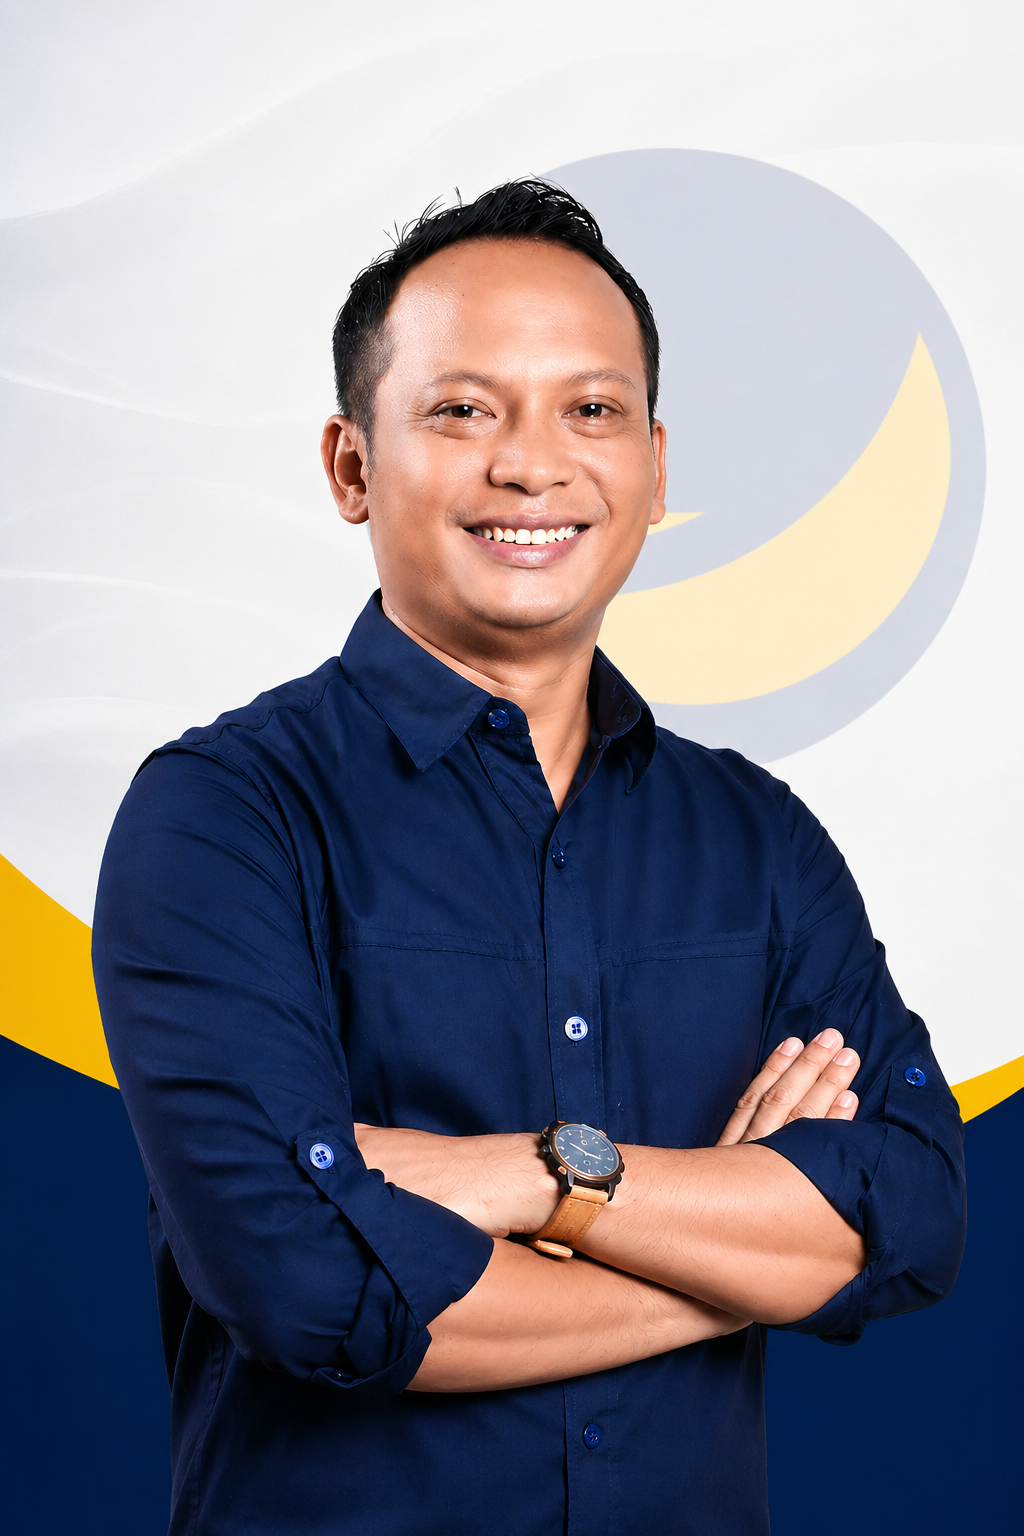
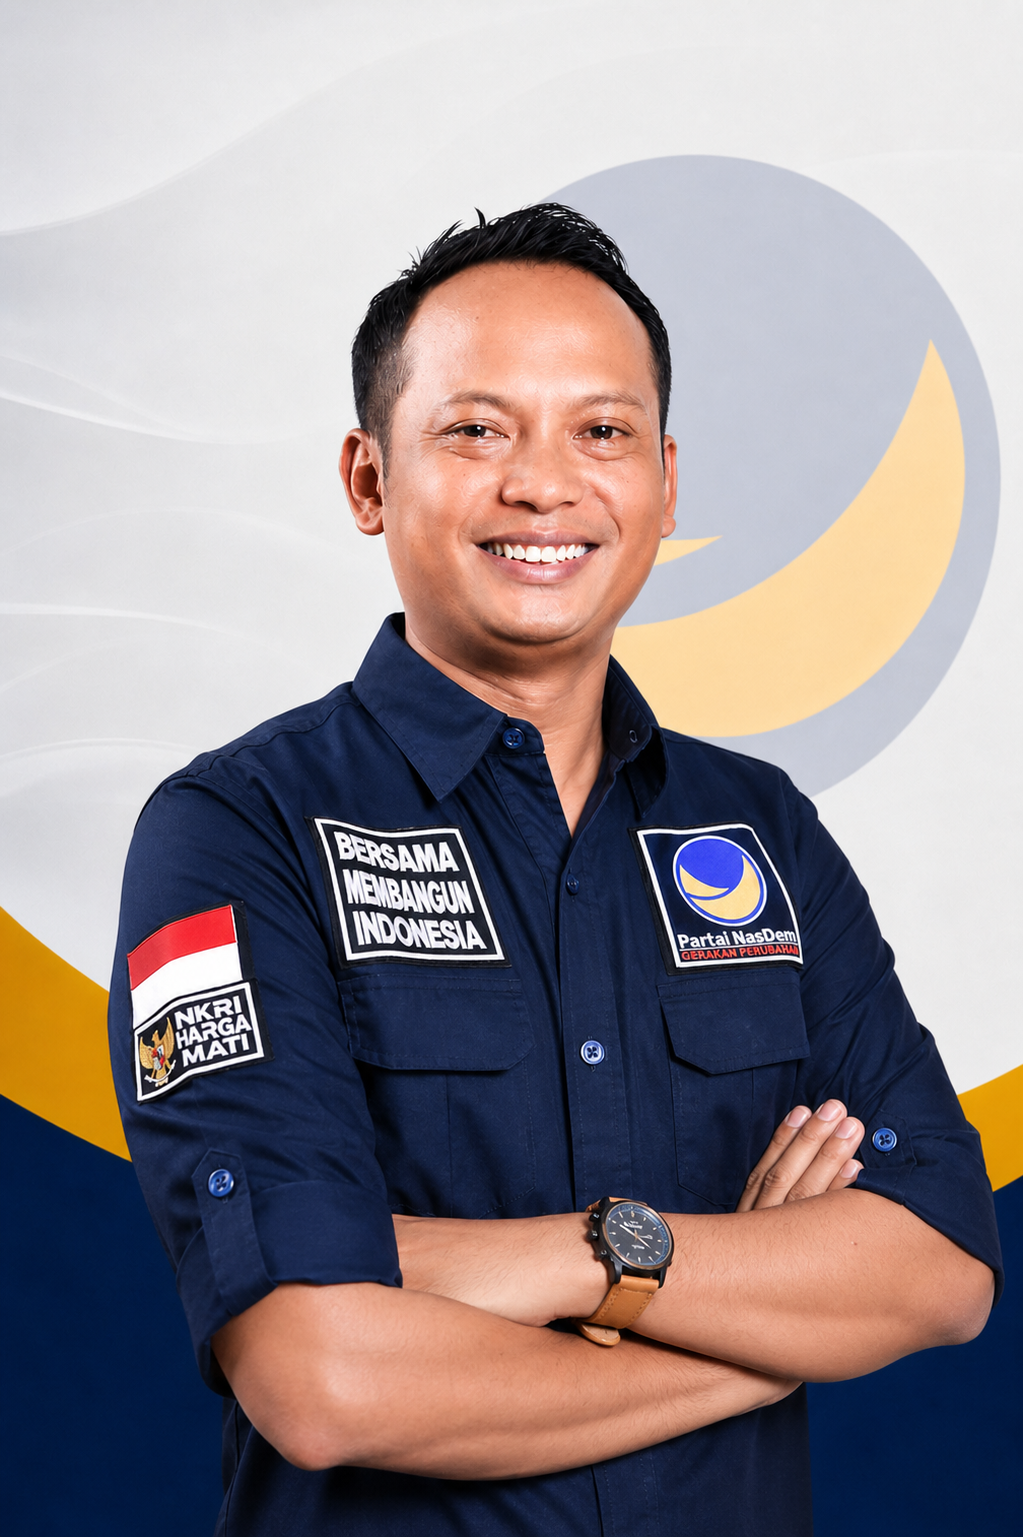
Update: Penyesuaian detail konten dan perbaikan minor pada halaman profil

diff --git a/app/profil/struktur/page.tsx b/app/profil/struktur/page.tsx
@@ -7,16 +7,6 @@ import Footer from "@/components/sections/Footer";
 
 // Data Pengurus Terstruktur
 const hierarchy = {
-  dpw: [
-    {
-      id: 1,
-      name: "Drs. MAMAT RACHMAT, M.Si.",
-      role: "Ketua DPW Jawa Barat",
-      img: "/images/06.png",
-      visi: "Mewujudkan restorasi Jawa Barat yang progresif.",
-      misi: ["Penguatan struktur wilayah", "Sinergi DPD se-Jawa Barat"]
-    }
-  ],
   ketuaDpd: [
     {
       id: 2,
@@ -108,12 +98,6 @@ export default function StrukturPage() {
       </section>
 
       <section className="max-w-7xl mx-auto px-6 pb-32 space-y-24">
-        
-        {/* Level 1: Ketua DPW */}
-        <div className="text-center space-y-8">
-          <MemberCard member={hierarchy.dpw[0]} isLarge />
-          <div className="h-12 w-px bg-gradient-to-b from-[#FFCC00] to-transparent mx-auto opacity-30" />
-        </div>
 
         {/* Level 2: Ketua DPD */}
         <div className="text-center space-y-8">